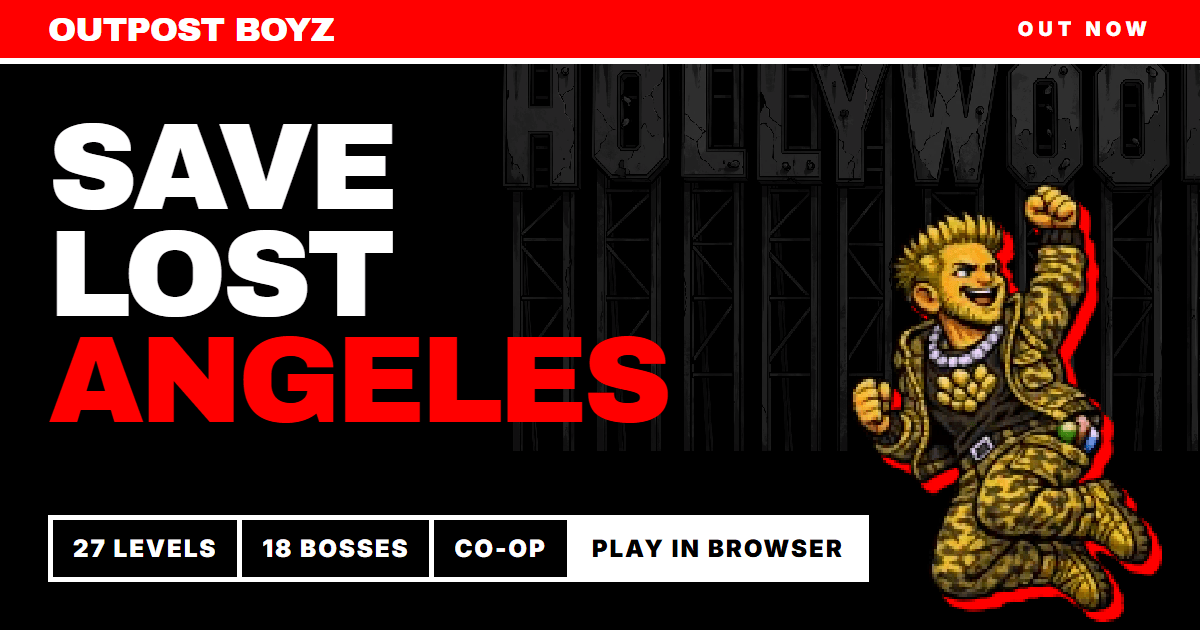
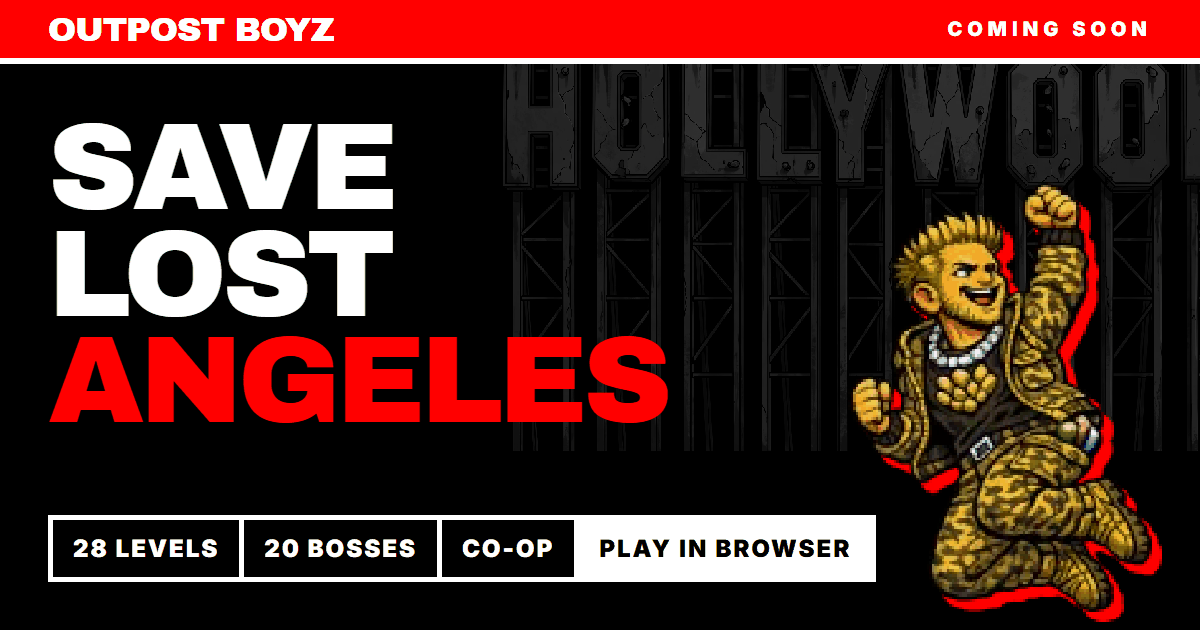
Save Lost Angeles share card + bounty box: COMING SOON
- assets/og/og-save-lost-angeles.png re-rendered from the same 1200x630
  template: "COMING SOON" (was OUT NOW), 28 LEVELS / 20 BOSSES (was 27/18).
  Same filename so og:image/twitter:image links don't change.
- Homepage bounty box: drop "buy the game once and it's yours / owners
  enter free" for "Coming soon. The bounty opens after launch."

diff --git a/index.html b/index.html
@@ -233,7 +233,7 @@
 
       <div style="border: var(--bw) solid var(--ink); background: var(--ink); color: var(--paper); padding: 18px 22px; margin-bottom: 22px; font-size: 14px;">
         <b style="letter-spacing: 2px;">THE $100 BOUNTY <span id="gxStatus" style="color:#39ff14;">(OPENS SOON)</span>:</b>
-        buy the game once and it's yours &nbsp;·&nbsp; owners enter free &nbsp;·&nbsp; first to beat the <b style="color:#39ff14;">FULL CITY RUN on NATIVE</b> — solo, GOLDEN BOY, zero continues, on video — and pass the crew's check takes the <b style="color:#39ff14;">$100</b> &nbsp;·&nbsp; conquered games retire to the BEAT PILE with the victor's name on them forever.
+        Coming soon. The bounty opens after launch &nbsp;·&nbsp; first to beat the <b style="color:#39ff14;">FULL CITY RUN on NATIVE</b> — solo, GOLDEN BOY, zero continues, on video — and pass the crew's check takes the <b style="color:#39ff14;">$100</b> &nbsp;·&nbsp; conquered games retire to the BEAT PILE with the victor's name on them forever.
         <span style="display:block; margin-top:10px; font-size:12px; color:#bbbbbb;">18+. US only; not open to residents of AR, AZ, CT, DE, IA, IN, LA, ME, MT, SC, SD, TN. Void where prohibited. <a href="bounty/" style="color:#39ff14;">Bounty details</a> &middot; <a href="bounty/rules/" style="color:#39ff14;">Official Rules</a></span>
       </div>
 
